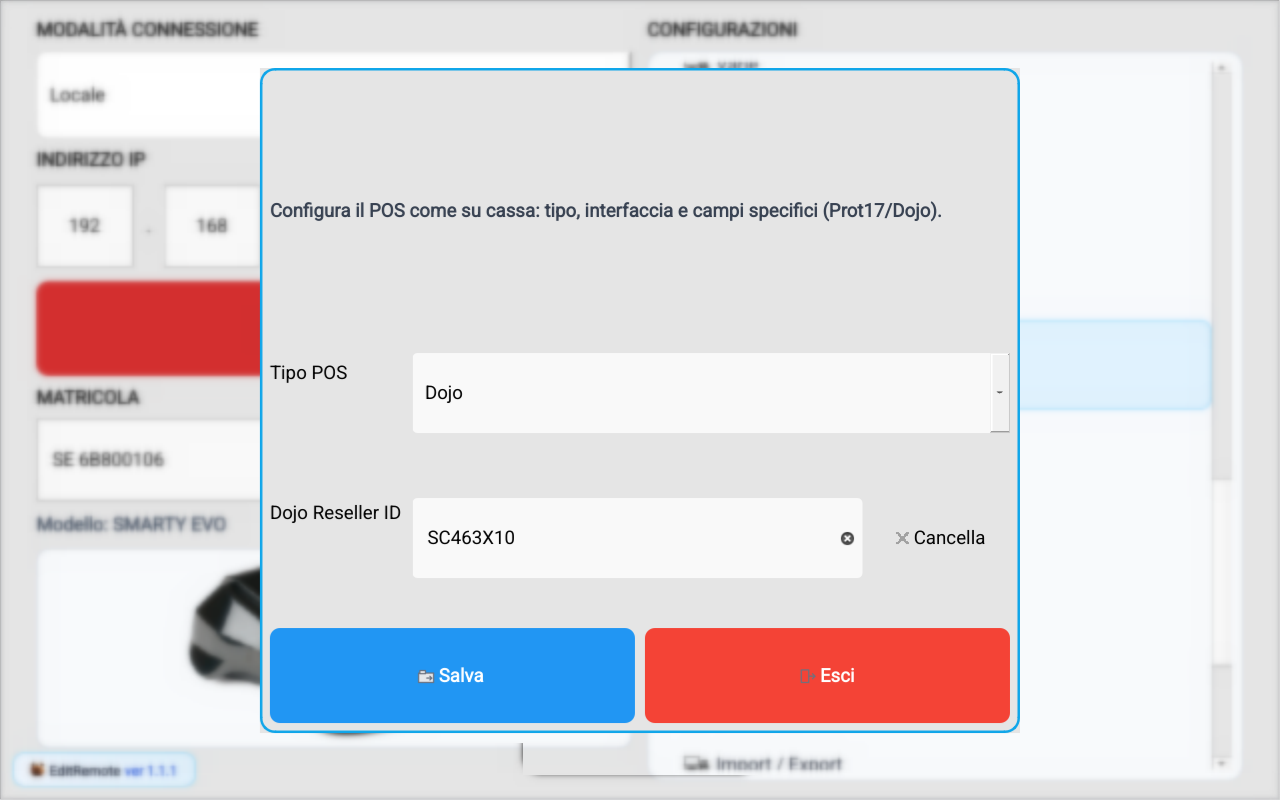
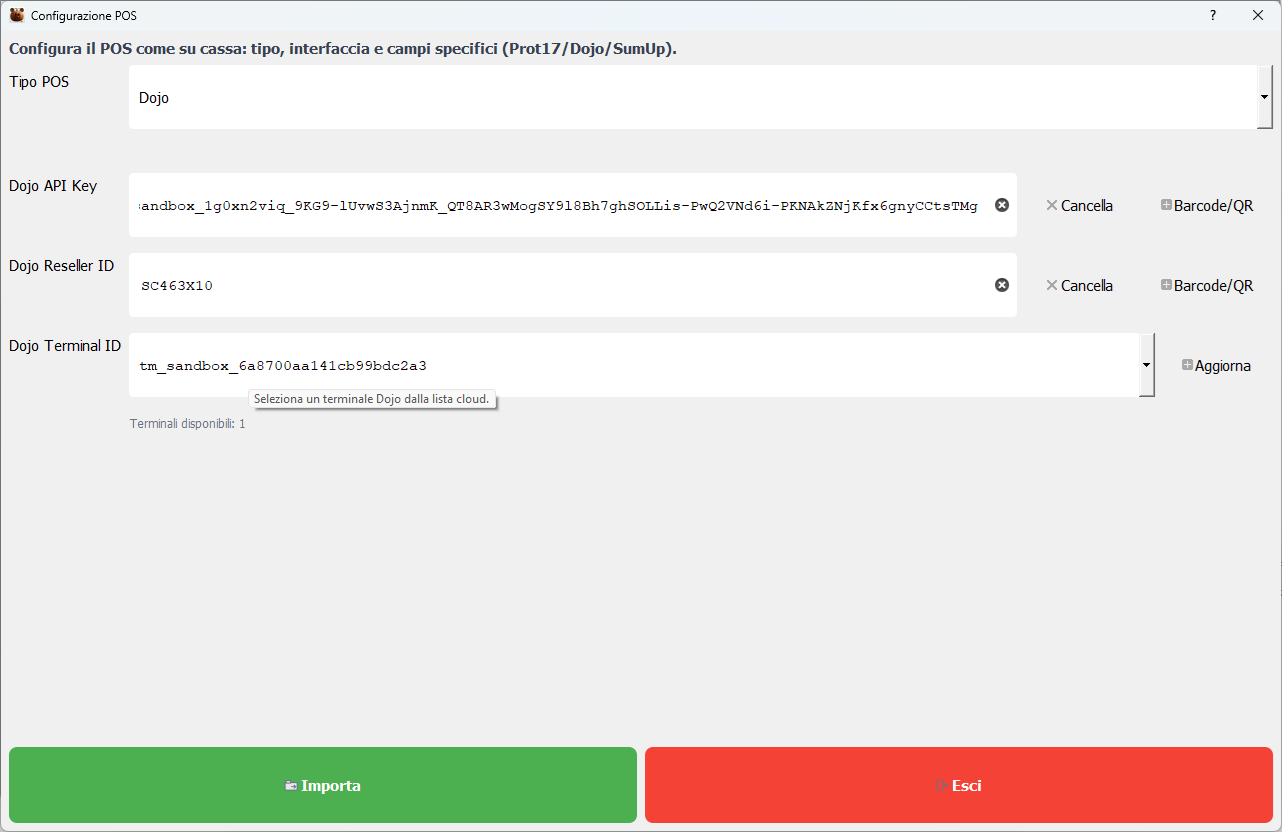
Guida Config POS Dojo: aggiorna flusso app-side e screenshot

diff --git a/impostazioni_prog_pos.html b/impostazioni_prog_pos.html
@@ -1,3 +1,3 @@
-<!DOCTYPE html> <html lang="it"> <head> <meta charset="utf-8"> <meta content="width=device-width, initial-scale=1.0" name="viewport"> <title>Config POS - EditRemote Help</title> <meta content="" name="description"> <meta content="" name="keywords"> <!-- Favicons --> <link href="assets/img/favicon.png" rel="icon"> <link href="assets/img/apple-touch-icon.png" rel="apple-touch-icon"> <!-- Google Fonts --> <link href="https://fonts.gstatic.com" rel="preconnect"> <link href="https://fonts.googleapis.com/css?family=Open+Sans:300,300i,400,400i,600,600i,700,700i|Nunito:300,300i,400,400i,600,600i,700,700i|Poppins:300,300i,400,400i,500,500i,600,600i,700,700i" rel="stylesheet"> <!-- Vendor CSS Files --> <link href="assets/vendor/bootstrap/css/bootstrap.min.css" rel="stylesheet"> <link href="assets/vendor/bootstrap-icons/bootstrap-icons.css" rel="stylesheet"> <link href="assets/vendor/boxicons/css/boxicons.min.css" rel="stylesheet"> <link href="assets/vendor/quill/quill.snow.css" rel="stylesheet"> <link href="assets/vendor/quill/quill.bubble.css" rel="stylesheet"> <link href="assets/vendor/remixicon/remixicon.css" rel="stylesheet"> <link href="assets/vendor/simple-datatables/style.css" rel="stylesheet"> <!-- Template Main CSS File --> <link href="assets/css/style.css" rel="stylesheet"> </head> <body> <!-- ======= Header ======= --> <header id="header" class="header fixed-top d-flex align-items-center"> <div class="d-flex align-items-center justify-content-between"> <a href="index.html" class="logo d-flex align-items-center"> <img src="assets/img/Icon.png" alt=""> <span class="d-none d-lg-block">EditRemote</span> </a> <i class="bi bi-list toggle-sidebar-btn"></i> </div><!-- End Logo --> <nav class="header-nav ms-auto"> <ul class="d-flex align-items-center"> <li class="nav-item d-block d-lg-none"> <a class="nav-link nav-icon search-bar-toggle " href="#"> <i class="bi bi-search"></i> </a> </li><!-- End Search Icon--> <li class="nav-item dropdown"> </header><!-- End Header --> <!-- ======= Sidebar ======= --> <aside id="sidebar" class="sidebar"> <ul class="sidebar-nav" id="sidebar-nav"> <li class="nav-item"> <a class="nav-link collapsed" href="index.html"> <i class="bi bi-grid"></i> <span>Home</span> </a> </li><!-- End Dashboard Nav --> <li class="nav-item"> <a class="nav-link collapsed" data-bs-target="#Panoramica" data-bs-toggle="collapse" href="#"> <i class="bi bi-menu-button-wide"></i><span>Panoramica</span><i class="bi bi-chevron-down ms-auto"></i> </a> <ul id="Panoramica" class="nav-content collapse " data-bs-parent="#sidebar-nav"> <li> <a href="panoramica_app.html"> <i class="bi bi-circle"></i><span>Panoramica</span> </a> </li> </ul> </li><!-- End Components Nav --> <li class="nav-item"> <a class="nav-link" data-bs-target="#Configurazioni" data-bs-toggle="collapse" href="#"> <i class="bi bi-menu-button-wide"></i><span>Configurazioni</span><i class="bi bi-chevron-down ms-auto"></i> </a> <ul id="Configurazioni" class="nav-content collapse show" data-bs-parent="#sidebar-nav"> <li> <a href="impostazioni_intestazione.html"> <i class="bi bi-circle"></i><span>Intestazione</span> </a> </li> <li> <a href="impostazioni_cortesia.html"> <i class="bi bi-circle"></i><span>Cortesia</span> </a> </li> <li> <a href="impostazioni_prog_iva.html"> <i class="bi bi-circle"></i><span>IVA</span> </a> </li> <li> <a href="impostazioni_prog_reparti.html"> <i class="bi bi-circle"></i><span>Reparti</span> </a> </li> <li> <a href="impostazioni_modificatori.html"> <i class="bi bi-circle"></i><span>Modificatori</span> </a> </li> <li> <a href="impostazioni_pagamenti.html"> <i class="bi bi-circle"></i><span>Pagamenti</span> </a> </li> <li> <a href="impostazioni_prog_articoli.html"> <i class="bi bi-circle"></i><span>Articoli</span> </a> </li> <li> <a href="impostazioni_prog_ateco.html"> <i class="bi bi-circle"></i><span>Ateco</span> </a> </li> <li> <a href="impostazioni_prog_opzioni_app.html"> <i class="bi bi-circle"></i><span>Opzioni</span> </a> </li> <li> <a href="impostazioni_autorizzazioni.html"> <i class="bi bi-circle"></i><span>Autorizzazioni</span> </a> </li> <li> <a href="impostazioni_cassieri.html"> <i class="bi bi-circle"></i><span>Cassieri</span> </a> </li> <li> <a href="impostazioni_clienti.html"> <i class="bi bi-circle"></i><span>Clienti</span> </a> </li> <li> <a href="impostazioni_messaggi_pubblicitari.html"> <i class="bi bi-circle"></i><span>Messaggi Pubblicitari</span> </a> </li> <li> <a href="impostazioni_varie.html"> <i class="bi bi-circle"></i><span>Varie</span> </a> </li> <li> <a href="impostazioni_prog_mail.html"> <i class="bi bi-circle"></i><span>Tx Email</span> </a> </li> <li> <a href="impostazioni_prog_dati_fattura.html"> <i class="bi bi-circle"></i><span>Fatture RT</span> </a> </li> <li> <a href="impostazioni_prog_pos.html" class="active"> <i class="bi bi-circle"></i><span>Config POS</span> </a> </li> <li> <a href="impostazioni_report_mail.html"> <i class="bi bi-circle"></i><span>Report Mail</span> </a> </li> <li> <a href="impostazioni_report_esercente.html"> <i class="bi bi-circle"></i><span>Report Esercente</span> </a> </li> <li> <a href="impostazioni_tastiera.html"> <i class="bi bi-circle"></i><span>Tastiera</span> </a> </li> <li> <a href="impostazioni_esporta.html"> <i class="bi bi-circle"></i><span>Esporta</span> </a> </li> <li> <a href="impostazioni_import_export.html"> <i class="bi bi-circle"></i><span>Import / Export</span> </a> </li> <li> <a href="impostazioni_aggiornamento.html"> <i class="bi bi-circle"></i><span>Aggiornamento</span> </a> </li> <li> <a href="impostazioni_disegno.html"> <i class="bi bi-circle"></i><span>Disegno</span> </a> </li>  <li> <a href="impostazioni_abbonamento.html"> <i class="bi bi-circle"></i><span>Piani di abbonamento</span> </a> </li> </ul> </li><!-- End Components Nav --> <li class="nav-item"> <a class="nav-link collapsed" href="pages-faq.html"> <i class="bi bi-question-circle"></i> <span>F.A.Q</span> </a> </li><!-- End F.A.Q Page Nav --> <li class="nav-item"> <a class="nav-link collapsed" href="pages-contact.html"> <i class="bi bi-envelope"></i> <span>Supporto</span> </a> </li><!-- End Contact Page Nav --> </ul> </aside><!-- End Sidebar--> <main id="main" class="main"> <div class="pagetitle"> <h1>Config POS</h1> <nav> <ol class="breadcrumb"> <li class="breadcrumb-item"><a href="index.html">Home</a></li> <li class="breadcrumb-item">Configurazioni</li> <li class="breadcrumb-item active">Config POS</li> </ol> </nav> </div> <section class="section"> <div class="row"> <div class="col-12"> <div class="card"> <div class="card-body"> <h5 class="card-title">Guida operativa</h5> <p> Questa programmazione equivale al comando <strong>834 MENU</strong> sul registratore RT.</p> <div class="alert alert-info mt-3" role="alert"> <strong>Nota operativa:</strong> <strong>Import</strong> legge i dati dalla cassa, <strong>Salva</strong> programma la cassa, mentre <strong>Esci</strong> ti riporta alla schermata principale. </div> <ol> <li>Apri Config POS dalla lista Configurazioni.</li> <li>Importa i dati correnti dalla cassa.</li> <li>Seleziona il <strong>tipo POS</strong> corretto.</li> <li>Compila solo i parametri richiesti per quel tipo/interfaccia.</li> <li>Salva e verifica l'esito operativo con una prova pagamento.</li> </ol> <h6>Tipi POS disponibili</h6> <ul> <li><strong>NESSUNO</strong>: POS non collegato.</li> <li><strong>NON SUPP.</strong>: POS non supportato (pagamenti gestiti in offline).</li> <li><strong>MYPOS</strong>: integrazione myPOS.</li> <li><strong>PROT.17</strong>: integrazione Protocol 17 (tipicamente Ingenico Desk/3200).</li> <li><strong>DOJO</strong>: integrazione terminale Dojo.</li> <li><strong>SUMUP</strong>: integrazione terminale SumUp (API Key, Merchant ID e Reader ID).</li> </ul> <h6>Interfacce e parametri da inserire</h6> <ul> <li><strong>TIPO CONN.</strong>: USB, LAN/WiFi, SERIALE (MYPOS solo USB).</li> <li><strong>INDIRIZZO IP</strong>: richiesto solo se interfaccia LAN/WiFi.</li> <li><strong>PORTA TCP</strong>: richiesta solo se interfaccia LAN/WiFi.</li> <li><strong>STAMPA</strong>: disponibile solo con POS tipo PROT.17 (RT, POS, POS+RT).</li> </ul> <h6>Cosa impostare per tipo POS</h6> <ul> <li><strong>MYPOS</strong>: imposta TIPO POS = MYPOS, connessione USB. Non servono IP/Porta in Config POS.</li> <li><strong>PROT.17 / Ingenico</strong>: imposta TIPO POS = PROT.17, scegli interfaccia (USB/LAN/WiFi/SERIALE). Se LAN/WiFi inserisci IP e Porta TCP; configura anche STAMPA.</li> <li><strong>DOJO</strong>: imposta TIPO POS = DOJO e completa la procedura guidata del terminale Dojo.</li> <li><strong>NON SUPP.</strong>: da usare solo se il POS non e integrato; la cassa non esegue il flusso online POS.</li> </ul> <h6>Dettaglio campi PROT.17 (Ingenico)</h6> <ul> <li><strong>TIPO POS</strong>: seleziona <strong>PROT.17</strong> per abilitare il protocollo ECR-POS compatibile Ingenico.</li> <li><strong>TIPO CONN.</strong>: scegli il canale fisico tra USB, LAN/WiFi o SERIALE in base al cablaggio reale del terminale.</li> <li><strong>INDIRIZZO IP</strong>: identifica il POS in rete locale; va compilato solo quando TIPO CONN. e LAN/WiFi.</li> <li><strong>PORTA TCP</strong>: porta di ascolto del servizio ECR sul POS; deve coincidere con quella configurata sul terminale.</li> <li><strong>STAMPA</strong>: definisce dove stampare la ricevuta POS: <strong>RT</strong>, <strong>POS</strong> o <strong>POS+RT</strong>.</li> </ul> <p> In pratica: se il POS Ingenico e su rete, i campi critici sono IP e PORTA TCP; se e su USB/seriale, IP e PORTA non vengono usati e la parte principale da verificare e la modalità STAMPA. </p> <h6>Dettaglio configurazione DOJO</h6> <p> Quando selezioni <strong>TIPO POS = DOJO</strong>, il registratore avvia la procedura guidata di configurazione e richiede in sequenza i campi: </p> <ul> <li><strong>API KEY</strong> (obbligatoria)</li> <li><strong>RESELLER ID</strong> (obbligatorio)</li> <li><strong>TERMINAL ID</strong> (selezionato automaticamente dalla lista terminali restituita dal servizio Dojo)</li> </ul> <p> Se viene trovato un solo terminale, il Terminal ID viene impostato in automatico. Se i terminali sono multipli, la cassa mostra la scelta <strong>TERMINALE</strong> e salva l'ID selezionato. Per Dojo non vengono richiesti IP/Porta nella schermata Config POS. </p> <h6>Esito operativo e fallback offline (DOJO)</h6> <ul> <li>In caso di errori di comunicazione (es. TLS o errore interno), viene proposto il fallback offline tramite richiesta <strong>CONTINUAOFFLINE?</strong>.</li> <li>Se l'operatore non conferma il fallback offline, viene segnalato <strong>POS NO OFFLINE</strong>.</li> <li>Errori tipici associati: <strong>ERRORE CONN. POS</strong>, <strong>OP. POS FALLITA</strong>, <strong>POS TIMEOUT</strong>, <strong>POS UTENTE CANC</strong>.</li> </ul>  <h6>Dettaglio configurazione SUMUP</h6> <p> Quando selezioni <strong>TIPO POS = SUMUP</strong>, la configurazione richiede i campi: </p> <ul> <li><strong>API KEY</strong> (obbligatoria)</li> <li><strong>MERCHANT ID</strong> (obbligatorio)</li> <li><strong>READER ID</strong> (selezionabile dalla lista lettori disponibili)</li> </ul> <p> Per compilare il Reader ID puoi usare il pulsante <strong>Aggiorna</strong> per ottenere/allineare la lista dei lettori associati al merchant, quindi salvare il lettore desiderato. Per SumUp non vengono richiesti IP/Porta nella schermata Config POS. </p> <h6>Esito operativo e fallback offline (SUMUP)</h6> <ul> <li>In caso di errori di comunicazione o indisponibilita del terminale, puo essere proposto il fallback offline tramite richiesta <strong>CONTINUAOFFLINE?</strong>.</li> <li>Se l'operatore non conferma il fallback offline, viene segnalato <strong>POS NO OFFLINE</strong>.</li> <li>Errori tipici associati: <strong>ERRORE CONN. POS</strong>, <strong>OP. POS FALLITA</strong>, <strong>POS TIMEOUT</strong>, <strong>POS UTENTE CANC</strong>.</li> </ul> <h6>Collegamenti con la programmazione pagamenti</h6> <p> Dopo la configurazione POS , in <strong>menu della cassa - Pagamenti</strong> va abilitata l'opzione <strong>ABILITA POS</strong> per i metodi elettronici che devono dialogare con il terminale. </p> <h6>Riferimenti operativi dai manuali tecnici</h6> <ul> <li>myPOS k300: selezione interfaccia all'avvio e profilo <strong>Cash Register</strong> per uso integrato con RT.</li> <li>Ingenico Desk/3200: protocollo 17, tipo linea, porta TCP/IP e messaggi di stato lato POS.</li> <li>Dojo: configurazione credenziali (API Key, Reseller ID) e selezione Terminal ID tramite procedura guidata.</li> <li>SumUp: configurazione API Key, Merchant ID e Reader ID; usare il pulsante Aggiorna per allineare/elencare i lettori disponibili.</li> <li>Messaggi errore frequenti in esercizio: POS TIMEOUT, POS TX ERROR, OP. POS FALLITA, POS NO CARD, POS DISCONNESSO.</li> </ul> <h6>Per scenario</h6> <div class="row g-3"> <div class="col-12 col-lg-4"> <p class="mb-2"><strong>Schermata Config POS </strong></p> <img src="assets/img/editremote/pos.png" class="img-fluid rounded border" alt="Configurazione parametri POS in EditRemote"> </div> <div class="col-12 col-lg-4"> <p class="mb-2"><strong>Schermata Config POS - MyPOS</strong></p> <img src="assets/img/editremote/pos_mypos.png" class="img-fluid rounded border" alt="Configurazione POS tipo MyPOS in EditRemote"> </div> <div class="col-12 col-lg-4"> <p class="mb-2"><strong>Schermata Config POS - PROT.17</strong></p> <img src="assets/img/editremote/pos_prot17.png" class="img-fluid rounded border" alt="Configurazione POS tipo Protocol 17 in EditRemote"> </div> <div class="col-12 col-lg-4"> <p class="mb-2"><strong>Schermata Config POS - Dojo</strong></p> <img src="assets/img/editremote/pos_dojo.png" class="img-fluid rounded border" alt="Configurazione POS tipo Dojo in EditRemote"> </div> <div class="col-12 col-lg-4"> <p class="mb-2"><strong>Schermata Config POS - SumUp</strong></p> <img src="assets/img/editremote/pos_sumup.png" class="img-fluid rounded border" alt="Configurazione POS tipo SumUp in EditRemote"> </div> <div class="col-12 col-lg-4"> <p class="mb-2"><strong>Schermata Pagamenti </strong></p> <img src="assets/img/editremote/pagamenti.png" class="img-fluid rounded border" alt="Configurazione pagamenti con abilitazione POS in EditRemote"> </div> </div> <h6 class="mt-4">Controlli finali consigliati</h6> <ul> <li>Conferma su cassa dei valori programmati e del tipo POS selezionato.</li> <li>Prova una transazione per verificare dialogo RT-POS.</li> <li>Export XML di backup dopo la modifica.</li> <li>Se una voce non è disponibile, verifica modello RT e versione software del dispositivo.</li> </ul> </div> </div> </div> </div> </section> </main><!-- End #main --> <!-- ======= Footer ======= --> <footer id="footer" class="footer"> <div class="copyright"> &copy; Copyright <strong><span>EditRemote Help</span></strong>. All Rights Reserved </div> <div class="credits"> <!-- All the links in the footer should remain intact. --> <!-- You can delete the links only if you purchased the pro version. --> <!-- Licensing information: https://bootstrapmade.com/license/ --> <!-- Purchase the pro version with working PHP/AJAX contact form: https://bootstrapmade.com/nice-admin-bootstrap-admin-html-template/ --> Designed by <a href="https://bootstrapmade.com/">BootstrapMade</a> </div> </footer><!-- End Footer --> <a href="#" class="back-to-top d-flex align-items-center justify-content-center"><i class="bi bi-arrow-up-short"></i></a> <!-- Vendor JS Files --> <script src="assets/vendor/bootstrap/js/bootstrap.bundle.min.js"></script> <!-- Template Main JS File --> <script src="assets/js/main.js"></script> </body> </html> 
+<!DOCTYPE html> <html lang="it"> <head> <meta charset="utf-8"> <meta content="width=device-width, initial-scale=1.0" name="viewport"> <title>Config POS - EditRemote Help</title> <meta content="" name="description"> <meta content="" name="keywords"> <!-- Favicons --> <link href="assets/img/favicon.png" rel="icon"> <link href="assets/img/apple-touch-icon.png" rel="apple-touch-icon"> <!-- Google Fonts --> <link href="https://fonts.gstatic.com" rel="preconnect"> <link href="https://fonts.googleapis.com/css?family=Open+Sans:300,300i,400,400i,600,600i,700,700i|Nunito:300,300i,400,400i,600,600i,700,700i|Poppins:300,300i,400,400i,500,500i,600,600i,700,700i" rel="stylesheet"> <!-- Vendor CSS Files --> <link href="assets/vendor/bootstrap/css/bootstrap.min.css" rel="stylesheet"> <link href="assets/vendor/bootstrap-icons/bootstrap-icons.css" rel="stylesheet"> <link href="assets/vendor/boxicons/css/boxicons.min.css" rel="stylesheet"> <link href="assets/vendor/quill/quill.snow.css" rel="stylesheet"> <link href="assets/vendor/quill/quill.bubble.css" rel="stylesheet"> <link href="assets/vendor/remixicon/remixicon.css" rel="stylesheet"> <link href="assets/vendor/simple-datatables/style.css" rel="stylesheet"> <!-- Template Main CSS File --> <link href="assets/css/style.css" rel="stylesheet"> </head> <body> <!-- ======= Header ======= --> <header id="header" class="header fixed-top d-flex align-items-center"> <div class="d-flex align-items-center justify-content-between"> <a href="index.html" class="logo d-flex align-items-center"> <img src="assets/img/Icon.png" alt=""> <span class="d-none d-lg-block">EditRemote</span> </a> <i class="bi bi-list toggle-sidebar-btn"></i> </div><!-- End Logo --> <nav class="header-nav ms-auto"> <ul class="d-flex align-items-center"> <li class="nav-item d-block d-lg-none"> <a class="nav-link nav-icon search-bar-toggle " href="#"> <i class="bi bi-search"></i> </a> </li><!-- End Search Icon--> <li class="nav-item dropdown"> </header><!-- End Header --> <!-- ======= Sidebar ======= --> <aside id="sidebar" class="sidebar"> <ul class="sidebar-nav" id="sidebar-nav"> <li class="nav-item"> <a class="nav-link collapsed" href="index.html"> <i class="bi bi-grid"></i> <span>Home</span> </a> </li><!-- End Dashboard Nav --> <li class="nav-item"> <a class="nav-link collapsed" data-bs-target="#Panoramica" data-bs-toggle="collapse" href="#"> <i class="bi bi-menu-button-wide"></i><span>Panoramica</span><i class="bi bi-chevron-down ms-auto"></i> </a> <ul id="Panoramica" class="nav-content collapse " data-bs-parent="#sidebar-nav"> <li> <a href="panoramica_app.html"> <i class="bi bi-circle"></i><span>Panoramica</span> </a> </li> </ul> </li><!-- End Components Nav --> <li class="nav-item"> <a class="nav-link" data-bs-target="#Configurazioni" data-bs-toggle="collapse" href="#"> <i class="bi bi-menu-button-wide"></i><span>Configurazioni</span><i class="bi bi-chevron-down ms-auto"></i> </a> <ul id="Configurazioni" class="nav-content collapse show" data-bs-parent="#sidebar-nav"> <li> <a href="impostazioni_intestazione.html"> <i class="bi bi-circle"></i><span>Intestazione</span> </a> </li> <li> <a href="impostazioni_cortesia.html"> <i class="bi bi-circle"></i><span>Cortesia</span> </a> </li> <li> <a href="impostazioni_prog_iva.html"> <i class="bi bi-circle"></i><span>IVA</span> </a> </li> <li> <a href="impostazioni_prog_reparti.html"> <i class="bi bi-circle"></i><span>Reparti</span> </a> </li> <li> <a href="impostazioni_modificatori.html"> <i class="bi bi-circle"></i><span>Modificatori</span> </a> </li> <li> <a href="impostazioni_pagamenti.html"> <i class="bi bi-circle"></i><span>Pagamenti</span> </a> </li> <li> <a href="impostazioni_prog_articoli.html"> <i class="bi bi-circle"></i><span>Articoli</span> </a> </li> <li> <a href="impostazioni_prog_ateco.html"> <i class="bi bi-circle"></i><span>Ateco</span> </a> </li> <li> <a href="impostazioni_prog_opzioni_app.html"> <i class="bi bi-circle"></i><span>Opzioni</span> </a> </li> <li> <a href="impostazioni_autorizzazioni.html"> <i class="bi bi-circle"></i><span>Autorizzazioni</span> </a> </li> <li> <a href="impostazioni_cassieri.html"> <i class="bi bi-circle"></i><span>Cassieri</span> </a> </li> <li> <a href="impostazioni_clienti.html"> <i class="bi bi-circle"></i><span>Clienti</span> </a> </li> <li> <a href="impostazioni_messaggi_pubblicitari.html"> <i class="bi bi-circle"></i><span>Messaggi Pubblicitari</span> </a> </li> <li> <a href="impostazioni_varie.html"> <i class="bi bi-circle"></i><span>Varie</span> </a> </li> <li> <a href="impostazioni_prog_mail.html"> <i class="bi bi-circle"></i><span>Tx Email</span> </a> </li> <li> <a href="impostazioni_prog_dati_fattura.html"> <i class="bi bi-circle"></i><span>Fatture RT</span> </a> </li> <li> <a href="impostazioni_prog_pos.html" class="active"> <i class="bi bi-circle"></i><span>Config POS</span> </a> </li> <li> <a href="impostazioni_report_mail.html"> <i class="bi bi-circle"></i><span>Report Mail</span> </a> </li> <li> <a href="impostazioni_report_esercente.html"> <i class="bi bi-circle"></i><span>Report Esercente</span> </a> </li> <li> <a href="impostazioni_tastiera.html"> <i class="bi bi-circle"></i><span>Tastiera</span> </a> </li> <li> <a href="impostazioni_esporta.html"> <i class="bi bi-circle"></i><span>Esporta</span> </a> </li> <li> <a href="impostazioni_import_export.html"> <i class="bi bi-circle"></i><span>Import / Export</span> </a> </li> <li> <a href="impostazioni_aggiornamento.html"> <i class="bi bi-circle"></i><span>Aggiornamento</span> </a> </li> <li> <a href="impostazioni_disegno.html"> <i class="bi bi-circle"></i><span>Disegno</span> </a> </li>  <li> <a href="impostazioni_abbonamento.html"> <i class="bi bi-circle"></i><span>Piani di abbonamento</span> </a> </li> </ul> </li><!-- End Components Nav --> <li class="nav-item"> <a class="nav-link collapsed" href="pages-faq.html"> <i class="bi bi-question-circle"></i> <span>F.A.Q</span> </a> </li><!-- End F.A.Q Page Nav --> <li class="nav-item"> <a class="nav-link collapsed" href="pages-contact.html"> <i class="bi bi-envelope"></i> <span>Supporto</span> </a> </li><!-- End Contact Page Nav --> </ul> </aside><!-- End Sidebar--> <main id="main" class="main"> <div class="pagetitle"> <h1>Config POS</h1> <nav> <ol class="breadcrumb"> <li class="breadcrumb-item"><a href="index.html">Home</a></li> <li class="breadcrumb-item">Configurazioni</li> <li class="breadcrumb-item active">Config POS</li> </ol> </nav> </div> <section class="section"> <div class="row"> <div class="col-12"> <div class="card"> <div class="card-body"> <h5 class="card-title">Guida operativa</h5> <p> Questa programmazione equivale al comando <strong>834 MENU</strong> sul registratore RT.</p> <div class="alert alert-info mt-3" role="alert"> <strong>Nota operativa:</strong> <strong>Import</strong> legge i dati dalla cassa, <strong>Salva</strong> programma la cassa, mentre <strong>Esci</strong> ti riporta alla schermata principale. </div> <ol> <li>Apri Config POS dalla lista Configurazioni.</li> <li>Importa i dati correnti dalla cassa.</li> <li>Seleziona il <strong>tipo POS</strong> corretto.</li> <li>Compila solo i parametri richiesti per quel tipo/interfaccia.</li> <li>Salva e verifica l'esito operativo con una prova pagamento.</li> </ol> <h6>Tipi POS disponibili</h6> <ul> <li><strong>NESSUNO</strong>: POS non collegato.</li> <li><strong>NON SUPP.</strong>: POS non supportato (pagamenti gestiti in offline).</li> <li><strong>MYPOS</strong>: integrazione myPOS.</li> <li><strong>PROT.17</strong>: integrazione Protocol 17 (tipicamente Ingenico Desk/3200).</li> <li><strong>DOJO</strong>: integrazione terminale Dojo.</li> <li><strong>SUMUP</strong>: integrazione terminale SumUp (API Key, Merchant ID e Reader ID).</li> </ul> <h6>Interfacce e parametri da inserire</h6> <ul> <li><strong>TIPO CONN.</strong>: USB, LAN/WiFi, SERIALE (MYPOS solo USB).</li> <li><strong>INDIRIZZO IP</strong>: richiesto solo se interfaccia LAN/WiFi.</li> <li><strong>PORTA TCP</strong>: richiesta solo se interfaccia LAN/WiFi.</li> <li><strong>STAMPA</strong>: disponibile solo con POS tipo PROT.17 (RT, POS, POS+RT).</li> </ul> <h6>Cosa impostare per tipo POS</h6> <ul> <li><strong>MYPOS</strong>: imposta TIPO POS = MYPOS, connessione USB. Non servono IP/Porta in Config POS.</li> <li><strong>PROT.17 / Ingenico</strong>: imposta TIPO POS = PROT.17, scegli interfaccia (USB/LAN/WiFi/SERIALE). Se LAN/WiFi inserisci IP e Porta TCP; configura anche STAMPA.</li> <li><strong>DOJO</strong>: imposta TIPO POS = DOJO e completa la procedura guidata del terminale Dojo.</li> <li><strong>NON SUPP.</strong>: da usare solo se il POS non e integrato; la cassa non esegue il flusso online POS.</li> </ul> <h6>Dettaglio campi PROT.17 (Ingenico)</h6> <ul> <li><strong>TIPO POS</strong>: seleziona <strong>PROT.17</strong> per abilitare il protocollo ECR-POS compatibile Ingenico.</li> <li><strong>TIPO CONN.</strong>: scegli il canale fisico tra USB, LAN/WiFi o SERIALE in base al cablaggio reale del terminale.</li> <li><strong>INDIRIZZO IP</strong>: identifica il POS in rete locale; va compilato solo quando TIPO CONN. e LAN/WiFi.</li> <li><strong>PORTA TCP</strong>: porta di ascolto del servizio ECR sul POS; deve coincidere con quella configurata sul terminale.</li> <li><strong>STAMPA</strong>: definisce dove stampare la ricevuta POS: <strong>RT</strong>, <strong>POS</strong> o <strong>POS+RT</strong>.</li> </ul> <p> In pratica: se il POS Ingenico e su rete, i campi critici sono IP e PORTA TCP; se e su USB/seriale, IP e PORTA non vengono usati e la parte principale da verificare e la modalità STAMPA. </p> <h6>Dettaglio configurazione DOJO</h6> <p> Quando selezioni <strong>TIPO POS = DOJO</strong> in EditRemote, la configurazione segue il nuovo flusso lato app (allineato a SumUp): </p> <ul> <li><strong>DOJO API KEY</strong>: compilabile manualmente o tramite pulsante <strong>Barcode/QR</strong>.</li> <li><strong>DOJO RESELLER ID</strong>: compilabile manualmente o tramite pulsante <strong>Barcode/QR</strong>.</li> <li><strong>DOJO TERMINAL ID</strong>: selezionabile dalla lista cloud tramite pulsante <strong>Aggiorna</strong> (o refresh automatico quando API Key e Reseller ID sono validi).</li> </ul> <p> La ricerca dei terminali Dojo viene eseguita da <strong>EditRemote</strong>; in programmazione cassa via LoadDump vengono inviati i 3 campi: <strong>D1=API Key</strong>, <strong>D2=Reseller ID</strong>, <strong>D3=Terminal ID</strong>. Per Dojo non sono richiesti IP/Porta nella schermata Config POS. </p> <p> Nota: la procedura da tastiera della cassa resta disponibile, ma nel flusso EditRemote la selezione terminale e gestita in app.</p> <h6>Esito operativo e fallback offline (DOJO)</h6> <ul> <li>In caso di errori di comunicazione (es. TLS o errore interno), viene proposto il fallback offline tramite richiesta <strong>CONTINUAOFFLINE?</strong>.</li> <li>Se l'operatore non conferma il fallback offline, viene segnalato <strong>POS NO OFFLINE</strong>.</li> <li>Errori tipici associati: <strong>ERRORE CONN. POS</strong>, <strong>OP. POS FALLITA</strong>, <strong>POS TIMEOUT</strong>, <strong>POS UTENTE CANC</strong>.</li> </ul>  <h6>Dettaglio configurazione SUMUP</h6> <p> Quando selezioni <strong>TIPO POS = SUMUP</strong>, la configurazione richiede i campi: </p> <ul> <li><strong>API KEY</strong> (obbligatoria)</li> <li><strong>MERCHANT ID</strong> (obbligatorio)</li> <li><strong>READER ID</strong> (selezionabile dalla lista lettori disponibili)</li> </ul> <p> Per compilare il Reader ID puoi usare il pulsante <strong>Aggiorna</strong> per ottenere/allineare la lista dei lettori associati al merchant, quindi salvare il lettore desiderato. Per SumUp non vengono richiesti IP/Porta nella schermata Config POS. </p> <h6>Esito operativo e fallback offline (SUMUP)</h6> <ul> <li>In caso di errori di comunicazione o indisponibilita del terminale, puo essere proposto il fallback offline tramite richiesta <strong>CONTINUAOFFLINE?</strong>.</li> <li>Se l'operatore non conferma il fallback offline, viene segnalato <strong>POS NO OFFLINE</strong>.</li> <li>Errori tipici associati: <strong>ERRORE CONN. POS</strong>, <strong>OP. POS FALLITA</strong>, <strong>POS TIMEOUT</strong>, <strong>POS UTENTE CANC</strong>.</li> </ul> <h6>Collegamenti con la programmazione pagamenti</h6> <p> Dopo la configurazione POS , in <strong>menu della cassa - Pagamenti</strong> va abilitata l'opzione <strong>ABILITA POS</strong> per i metodi elettronici che devono dialogare con il terminale. </p> <h6>Riferimenti operativi dai manuali tecnici</h6> <ul> <li>myPOS k300: selezione interfaccia all'avvio e profilo <strong>Cash Register</strong> per uso integrato con RT.</li> <li>Ingenico Desk/3200: protocollo 17, tipo linea, porta TCP/IP e messaggi di stato lato POS.</li> <li>Dojo: nel flusso EditRemote la ricerca terminali e la selezione Terminal ID sono gestite lato app; in cassa vengono programmati D1 (API Key), D2 (Reseller ID), D3 (Terminal ID).</li> <li>SumUp: configurazione API Key, Merchant ID e Reader ID; usare il pulsante Aggiorna per allineare/elencare i lettori disponibili.</li> <li>Messaggi errore frequenti in esercizio: POS TIMEOUT, POS TX ERROR, OP. POS FALLITA, POS NO CARD, POS DISCONNESSO.</li> </ul> <h6>Per scenario</h6> <div class="row g-3"> <div class="col-12 col-lg-4"> <p class="mb-2"><strong>Schermata Config POS </strong></p> <img src="assets/img/editremote/pos.png" class="img-fluid rounded border" alt="Configurazione parametri POS in EditRemote"> </div> <div class="col-12 col-lg-4"> <p class="mb-2"><strong>Schermata Config POS - MyPOS</strong></p> <img src="assets/img/editremote/pos_mypos.png" class="img-fluid rounded border" alt="Configurazione POS tipo MyPOS in EditRemote"> </div> <div class="col-12 col-lg-4"> <p class="mb-2"><strong>Schermata Config POS - PROT.17</strong></p> <img src="assets/img/editremote/pos_prot17.png" class="img-fluid rounded border" alt="Configurazione POS tipo Protocol 17 in EditRemote"> </div> <div class="col-12 col-lg-4"> <p class="mb-2"><strong>Schermata Config POS - Dojo</strong></p> <img src="assets/img/editremote/pos_dojo.png" class="img-fluid rounded border" alt="Configurazione POS tipo Dojo in EditRemote (nuovo flusso con API Key, Reseller ID e Terminal ID da lista cloud)"> </div> <div class="col-12 col-lg-4"> <p class="mb-2"><strong>Schermata Config POS - SumUp</strong></p> <img src="assets/img/editremote/pos_sumup.png" class="img-fluid rounded border" alt="Configurazione POS tipo SumUp in EditRemote"> </div> <div class="col-12 col-lg-4"> <p class="mb-2"><strong>Schermata Pagamenti </strong></p> <img src="assets/img/editremote/pagamenti.png" class="img-fluid rounded border" alt="Configurazione pagamenti con abilitazione POS in EditRemote"> </div> </div> <h6 class="mt-4">Controlli finali consigliati</h6> <ul> <li>Conferma su cassa dei valori programmati e del tipo POS selezionato.</li> <li>Prova una transazione per verificare dialogo RT-POS.</li> <li>Export XML di backup dopo la modifica.</li> <li>Se una voce non è disponibile, verifica modello RT e versione software del dispositivo.</li> </ul> </div> </div> </div> </div> </section> </main><!-- End #main --> <!-- ======= Footer ======= --> <footer id="footer" class="footer"> <div class="copyright"> &copy; Copyright <strong><span>EditRemote Help</span></strong>. All Rights Reserved </div> <div class="credits"> <!-- All the links in the footer should remain intact. --> <!-- You can delete the links only if you purchased the pro version. --> <!-- Licensing information: https://bootstrapmade.com/license/ --> <!-- Purchase the pro version with working PHP/AJAX contact form: https://bootstrapmade.com/nice-admin-bootstrap-admin-html-template/ --> Designed by <a href="https://bootstrapmade.com/">BootstrapMade</a> </div> </footer><!-- End Footer --> <a href="#" class="back-to-top d-flex align-items-center justify-content-center"><i class="bi bi-arrow-up-short"></i></a> <!-- Vendor JS Files --> <script src="assets/vendor/bootstrap/js/bootstrap.bundle.min.js"></script> <!-- Template Main JS File --> <script src="assets/js/main.js"></script> </body> </html> 
 
 
